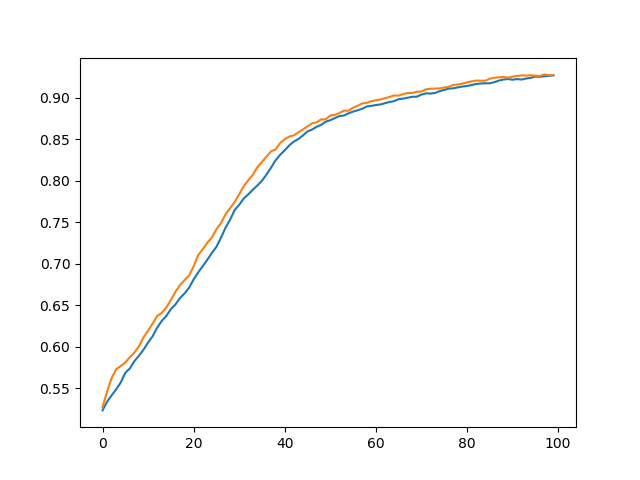
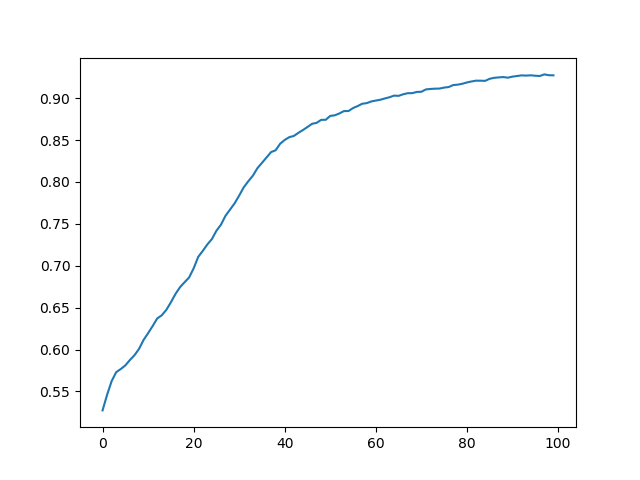
fixed plots

diff --git a/Recalls_TopN.py b/Recalls_TopN.py
@@ -19,11 +19,6 @@ from tqdm import trange
 from sklearn.metrics import *
 from itertools import islice
 
-bpr = BPR()
-sbpr1 = SBPR1()
-sbpr2 = SBPR2()
-rr = RandomRanking()
-mp = MostPopular()
 
 def saveAUCPlot(dataset, aname):
     f = open('./results/' + dataset + '/' + aname + '_AUC.pkl', 'rb')
@@ -39,7 +34,6 @@ def loadModel(dataset, aname):
         bpr_params = pickle.load(f)['blobs']
         model.user_factors = bpr_params['user_factors']
         model.item_factors = bpr_params['item_factors']
-        bpr = model
         f.close()
     elif aname == 'SBPR1':
         f = open('./models/' + dataset + '/sbpr1_model.pkl', 'rb')
@@ -47,7 +41,6 @@ def loadModel(dataset, aname):
         sbpr1_params = pickle.load(f)['blobs']
         model.user_factors = sbpr1_params['user_factors']
         model.item_factors = sbpr1_params['item_factors']
-        sbpr1 = model
         f.close()
     elif aname == 'SBPR2':
         f = open('./models/' + dataset + '/sbpr2_model.pkl', 'rb')
@@ -55,7 +48,6 @@ def loadModel(dataset, aname):
         sbpr2_params = pickle.load(f)['blobs']
         model.user_factors = sbpr2_params['user_factors']
         model.item_factors = sbpr2_params['item_factors']
-        sbpr2 = model
         f.close()
     elif aname == 'RandomRanking':
         f = open('./models/' + dataset + '/random_model.pkl', 'rb')
@@ -63,7 +55,6 @@ def loadModel(dataset, aname):
         rr_params = pickle.load(f)['blobs']
         model.n_users = rr_params['n_users']
         model.n_items = rr_params['n_items']
-        rr = model
         f.close() 
     elif aname == 'MostPopular':
         f = open('./models/' + dataset + '/mp_model.pkl', 'rb')
@@ -71,7 +62,6 @@ def loadModel(dataset, aname):
         mp_params = pickle.load(f)['blobs']
         model.mappings = mp_params['mappings']
         model.topN = mp_params['topN']
-        mp = model
         f.close() 
     return model 
 
@@ -123,23 +113,11 @@ def getRecommendations(model, X_test, N, df, mappings):
 
 def getMetrics(df_test, df, N):
     rla = topn.RecListAnalysis()
-    rla.add_metric(topn.ndcg)
     rla.add_metric(topn.recall)
     results = rla.compute(df_test, df)
-    ndcg_mean = results['ndcg'].mean()
     recall_mean = results['recall'].mean()
-    return ndcg_mean, recall_mean
+    return recall_mean
 
-def coldStart(mappings, df, df_test, X_test):
-    total_cold_start_users = df.groupby('user').filter(lambda x : len(x) <= 6)['user'].unique()
-    coded_user = [mappings['user_code'][user] for user in total_cold_start_users]
-    true_ratings = dict([user, mappings['code_item'][X_test[mappings['user_code'][user]].indices[0]]] for user in total_cold_start_users)
-    cold_start_ratings = pd.DataFrame(columns=['user','item','rating'])
-    for user in total_cold_start_users:
-        cold_start_ratings = pd.concat([cold_start_ratings, df.query('user == @user & item == @true_ratings[@user]')], axis = 0)
-    cold_start_users = list(cold_start_ratings['user'].unique())
-    df_cold_start = df_test.query('user in @cold_start_users')
-    return df_cold_start
 
 dataset = sys.argv[1]
 file_dir = '../data/' + dataset
@@ -149,42 +127,19 @@ df = pickle.load(pos_file)
 X, mappings = getMatrix(df)
 _, X_test = getTrainTest(X)
 print ("Got matrices")
+recall_list = [5, 20, 40, 60, 70, 80, 100]
 
+recalls = {}
 for aname in ['BPR', 'SBPR1', 'SBPR2']:
     print (aname)
     print ('--------------------------------')
     try:
-        f = open('./results/' + dataset + '/' + aname + '_AUC.pkl', 'rb')
-        auc = pickle.load(f)
-        f.close()
-        plt.plot(range(len(auc)), auc)
-        plt.savefig('./results/' + dataset + '/' + aname + '_100epochs.png')
-        print ("Saved AUC")
         model = loadModel(dataset, aname)
-        
-        df_test = getRecommendations(model, X_test, 5, df, mappings)
-        df_cold_start = coldStart(mappings, df, df_test, X_test)
-        ndcg_at_5, recall_at_5 = getMetrics(df_test, df, 5)
-        print ("NDCG@5 =", ndcg_at_5)
-        print ("Recall@5 =", recall_at_5)
-        print ()
-        print ("--- Cold Start")
-        ndcg_at_5, recall_at_5 = getMetrics(df_cold_start, df, 5)
-        print ("NDCG@5 =", ndcg_at_5)
-        print ("Recall@5 =", recall_at_5)
-        print ()
-        df_test = getRecommendations(model, X_test, 10, df, mappings)
-        df_cold_start = coldStart(mappings, df, df_test, X_test)
-        ndcg_at_10, recall_at_10 = getMetrics(df_test, df, 10)
-        print ("NDCG@10 =", ndcg_at_10)
-        print ("Recall@10 =", recall_at_10)
-        print ()
-        print ("--- Cold Start")
-        ndcg_at_10, recall_at_10 = getMetrics(df_cold_start, df, 10)
-        print ("NDCG@10 =", ndcg_at_10)
-        print ("Recall@10 =", recall_at_10)   
-        
-        print ()
+        recalls[aname] = []
+        for i in recall_list:
+            df_test = getRecommendations(model, X_test, i, df, mappings)
+            recalls[aname].append(getMetrics(df_test, df, i))
+
     except Exception as e:
         print (e)
         
@@ -193,47 +148,22 @@ for aname in ['RandomRanking', 'MostPopular']:
     
     print (aname)
     print ('--------------------------------')
-    try:
-        f = open('./results/' + dataset + '/' + aname + '_AUC.pkl', 'rb')
-        auc = pickle.load(f)
-        f.close()
-        print ("AUC =", auc)
-        print ()
+    try:        
         model = loadModel(dataset, aname)
-        
-        recommendation, users, ranks = model.recommend(X_test, N = 5)
-        df_test = pd.DataFrame({'user': flatten(users), 'item': flatten(recommendation)})
-        df_test['item'] = [mappings['code_item'][item] for item in df_test['item'].astype(int)]
-        df_test['user'] = [mappings['code_user'][user] for user in df_test['user'].astype(int)]
-        df_test['rank'] = flatten(ranks)
-        
-        df_cold_start = coldStart(mappings, df, df_test, X_test)
-        ndcg_at_5, recall_at_5 = getMetrics(df_test, df, 5)
-        print ("NDCG@5 =", ndcg_at_5)
-        print ("Recall@5 =", recall_at_5)
-        print ()
-        print ("--- Cold Start")
-        ndcg_at_5, recall_at_5 = getMetrics(df_cold_start, df, 5)
-        print ("NDCG@5 =", ndcg_at_5)
-        print ("Recall@5 =", recall_at_5)
-        print ()
-        
-        recommendation, users, ranks = model.recommend(X_test, N = 10)
-        df_test = pd.DataFrame({'user': flatten(users), 'item': flatten(recommendation)})
-        df_test['item'] = [mappings['code_item'][item] for item in df_test['item'].astype(int)]
-        df_test['user'] = [mappings['code_user'][user] for user in df_test['user'].astype(int)]
-        df_test['rank'] = flatten(ranks)
-        
-        df_cold_start = coldStart(mappings, df, df_test, X_test)
-        ndcg_at_10, recall_at_10 = getMetrics(df_test, df, 10)
-        print ("NDCG@10 =", ndcg_at_10)
-        print ("Recall@10 =", recall_at_10)
-        print ()
-        print ("--- Cold Start")
-        ndcg_at_10, recall_at_10 = getMetrics(df_cold_start, df, 10)
-        print ("NDCG@10 =", ndcg_at_10)
-        print ("Recall@10 =", recall_at_10)   
-        
-        print ()
+        recalls[aname] = []
+        for i in recall_list:
+            recommendation, users, ranks = model.recommend(X_test, i)
+            df_test = pd.DataFrame({'user': flatten(users), 'item': flatten(recommendation)})
+            df_test['item'] = [mappings['code_item'][item] for item in df_test['item'].astype(int)]
+            df_test['user'] = [mappings['code_user'][user] for user in df_test['user'].astype(int)]
+            df_test['rank'] = flatten(ranks)
+            recalls[aname].append(getMetrics(df_test, df, i))
+
     except Exception as e:
         print (e)
+        
+for key in recalls:
+    plt.plot(recall_list, recalls[key], label=key)
+plt.title('Recall vs Top N')
+plt.legend()
+plt.savefig('./results/' + dataset + '/Recall_TopN')
